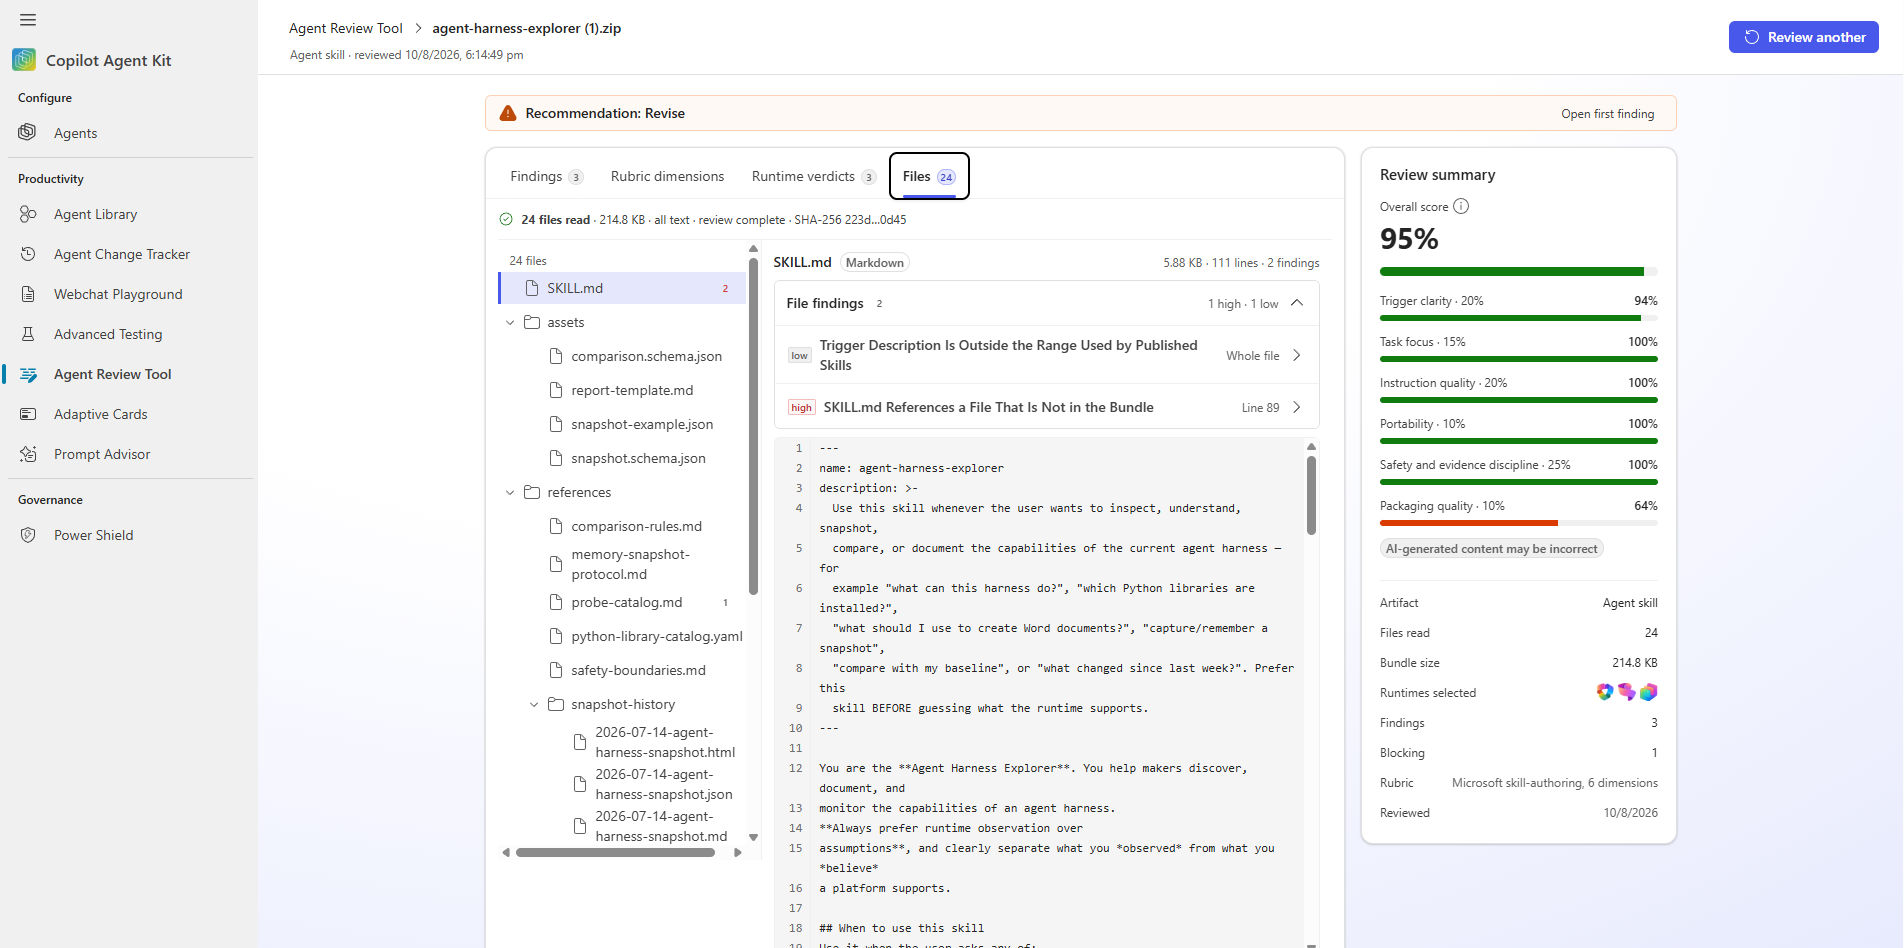
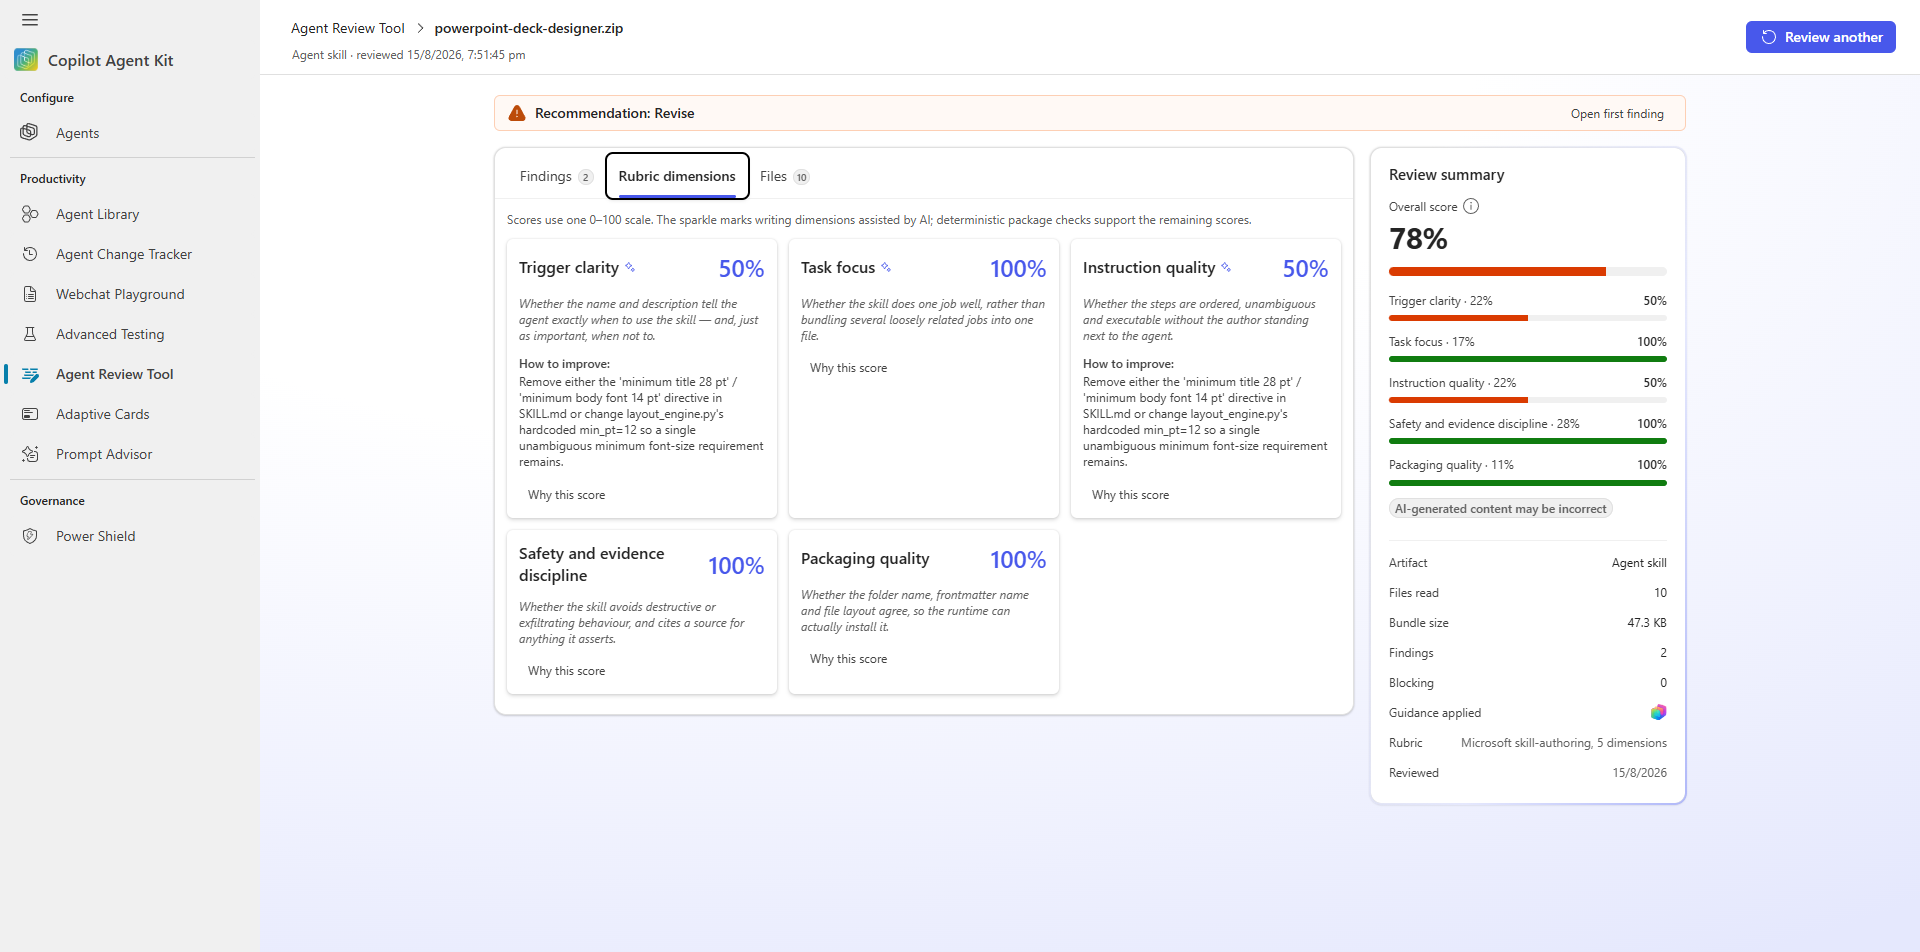
docs: update Skills and Automations review guide
Align artifact review guidance and imagery with evidence-based scoring and the removal of runtime verdicts.

Copilot-Session: f96345b2-9782-4efd-86fa-a4e22c7250e9

diff --git a/AGENTREVIEWTOOL_REFERENCE_GUIDE.md b/AGENTREVIEWTOOL_REFERENCE_GUIDE.md
@@ -60,7 +60,7 @@ and Skills & Automations review into one experience.*
 | --- | --- |
 | Copilot Studio agent review | Reviews a live agent from an accessible environment or an exported solution ZIP. Standard results cover configuration and instructions. GitHub Copilot results add architecture, skills, resources, orchestration, evaluation coverage, and cost and efficiency guidance. |
 | Microsoft 365 Declarative Agent review | Reviews an Agent Builder ZIP for instructions, knowledge, capabilities, actions, starters, error handling, and manifest issues. |
-| Skills and Automations review | Reviews Agent skills for Copilot Studio, Copilot Cowork, or Microsoft Scout. It also reviews Scout automation and installer files. It checks runtime fit, safety, authoring quality, and file-specific issues. |
+| Skills and Automations review | Reviews Agent skills for Copilot Studio, Copilot Cowork, or Microsoft Scout. It also reviews Scout automation and installer files. It checks package structure, safety, authoring quality, secret patterns, and file-specific issues. Runtime selections scope the review guidance; they do not prove runtime compatibility. |
 | Agent Map for GitHub Copilot agents | A map and accessible list of the agent, skills, tools, knowledge, triggers, and connected agents. |
 | Skill and resource analysis for GitHub Copilot agents | Shows skill findings and eligible supporting files, with detailed resource analysis when available. |
 | Cross-skill orchestration for GitHub Copilot agents | Findings for overlap, redundancy, and routing across the skill set. |
@@ -415,7 +415,7 @@ findings for only one skill.
 
 Individual skill results show Quality, Integrity, Safety, and Readiness. These
 four 0-to-100 dimensions do not form a separate single composite skill score.
-This in-agent skill score is different from the six-dimension, 0-to-5 rubric
+This in-agent skill score is different from the five-dimension, 0-to-100 rubric
 for a standalone Skills & Automations upload.
 
 ### Evaluation coverage for GitHub Copilot agents
@@ -536,7 +536,8 @@ The tool detects the artifact type from its files.
 1. Open **Skills & Automations**.
 2. Select the upload action.
 3. Select one supported file.
-4. For an Agent skill, select one or more applicable target runtimes:
+4. For an Agent skill, select one or more target runtimes for the review to
+   consider:
    Copilot Studio, Copilot Cowork, or Microsoft Scout. Scout automation
    formats use Microsoft Scout.
 5. Start the review.
@@ -545,14 +546,21 @@ The tool detects the artifact type from its files.
 
 ![Skills and Automations upload dialog with target runtime selections](media/skills-automations-upload.png)
 
-*Select the artifact and each target runtime that applies.*
+*Select the artifact and the target runtimes whose guidance the review should
+consider. This selection does not establish runtime compatibility.*
 
-The review first runs deterministic checks for packaging, structure, secret
-patterns, file content, and runtime fit. When the AI stage is available, it
-also assesses task focus, instruction quality, safety, and evidence discipline.
-The tool then applies the authoring rubric and creates a separate verdict for
-each applicable runtime. If the AI stage cannot run, the result is partial. It
-does not present the deterministic-only result as a full assessment.
+The review first runs deterministic checks for package format, structure,
+official limits, unsafe or secret patterns, and file content. When the AI stage
+is available, it also assesses task focus, instruction quality, safety, and
+evidence discipline. A score deduction must identify an artifact-specific gap
+and improvement. If the AI stage cannot run, the result is partial. It does not
+present the deterministic-only result as a full assessment.
+
+Selected runtimes define the scope of the review guidance. They are not
+evidence that the artifact runs on those products. Tool availability, target
+agent configuration, and runtime behavior remain **Not assessed** unless they
+can be verified from a connected agent or runtime test. Treat the result as an
+evidence-based preflight review, not as runtime certification.
 
 ### Read artifact results
 
@@ -560,31 +568,34 @@ The result page contains:
 
 - **Findings**
 - **Rubric dimensions**
-- **Runtime verdicts**
 - **Files**
 
-![Standalone skill review result with findings, rubric dimensions, runtime verdicts, and files](media/skills-automations-review.png)
+![Standalone skill review result with findings, rubric dimensions, and files](media/skills-automations-review.png)
 
-*The saved artifact result connects findings to rubric scores, runtime
-verdicts, and reviewed files.*
+*The saved artifact result connects evidence-based findings to rubric scores
+and reviewed files.*
 
-The six rubric dimensions use a 0-to-5 score:
+The five rubric dimensions use a 0-to-100 score:
 
 1. Trigger clarity
 2. Task focus
 3. Instruction quality
-4. Portability
-5. Safety and evidence discipline
-6. Packaging quality
+4. Safety and evidence discipline
+5. Packaging quality
 
-Use **Runtime verdicts** to see whether the artifact is ready for each selected
-runtime. Use **Files** to find file-specific risks and readiness findings.
+Portability is not a scored dimension for an artifact-only review because an
+uploaded file cannot prove runtime compatibility. Open **Why this score** to
+see the evidence and explanation for a dimension. Use **Files** to find
+file-specific risks and readiness findings.
 
 The review can evaluate eligible text resources in more detail. It can skip
 binary, unreadable, or high-risk resources that the secret scan withholds.
 
 Select **Review another** to start a new artifact review. Artifact result pages
 do not provide PDF, Excel, or SARIF export.
+
+Rerun older artifact reviews before relying on them so the result uses the
+current evidence and scoring rules.
 
 ## Use result actions and exports
 
